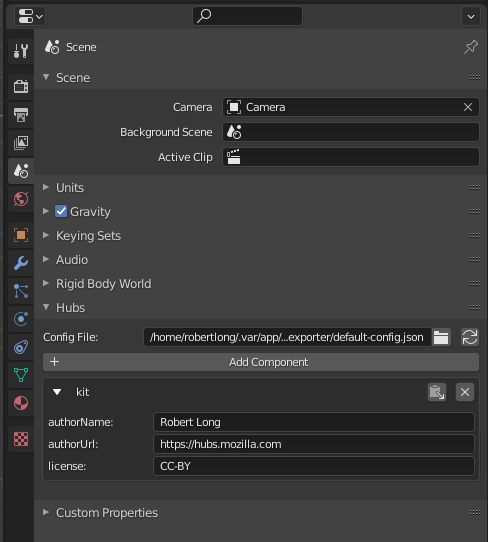
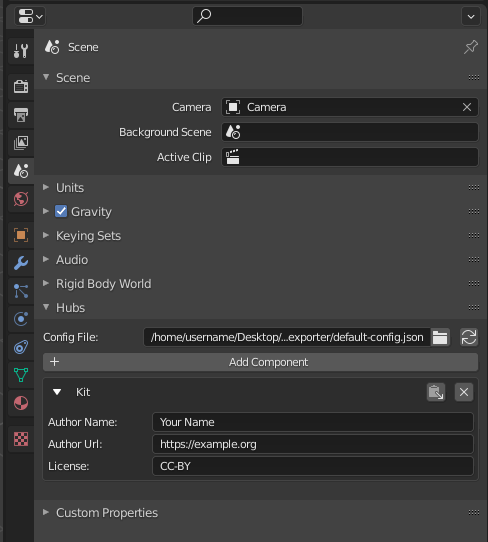
Remove the last bits of Mozilla branding
What: Removes Mozilla branding from the habitat scripts, some test files, images, videos, and a few other miscellaneous files.

Why: this is no longer a Mozilla project.

Notes:

The AVA test snapshot (test/integration/snapshots/Editor.test.js.snap)  will need to be regenerated with `yarn run update-test-snapshots` due to the changes in test/integration/snapshots/Editor.test.js.md, but that will need to wait until the architecture kit and crater.glb are rehosted in order to complete successfully.  Technically, this means one Mozilla reference is left (inside the snapshot), but it's only visible when running the tests and seeing it marked as an error.

This doesn't remove/modify non branding related Mozilla references like credits or code/dependencies as that would be inappropriate/break things.

Pull request: [Mozilla Branding Removal] Remove the last bits of Mozilla branding
## What?
<!-- REQUIRED — Explain what your pull request does -->
Removes Mozilla branding from the habitat scripts, some test files, images, videos, and a few other miscellaneous files.

## Why?
<!-- REQUIRED — Explain why you're opening this pull request, what limitations does it address, etc..  If you're fixing a bug with an open bug report you can just link to the bug report -->
This is no longer a Mozilla project.

## Examples
<!-- OPTIONAL — If applicable, give examples of the changes the user will observe, e.g. screenshots, videos, diagrams, console output, etc., otherwise put "N/A" or remove the section.  Including examples of before the PR and after the PR is encouraged. -->
N/A

## How to test
<!-- REQUIRED — Give the steps required to test your pull request -->

1. Run a search for the text "Mozilla" and see there are no uses of it other than for technical/credit reasons.
    * e.g. on GNU/Linux you can run this command to find any Mozilla references:`grep -r -i --exclude-dir={.git,.tersercache,dist,node_modules} "mozilla"`
2. Look through all the images and see there is no branding.
    * Running this command on GNU/Linux will list all of the images in the current directory and subdirectories `find . -type f -exec file -N -i -- {} + | sed -n 's!: image/[^:]*$!!p'`
3. Look through all the videos and see there is no branding.
[…]

diff --git a/test/integration/snapshots/Editor.test.js.md b/test/integration/snapshots/Editor.test.js.md
@@ -890,7 +890,7 @@ Generated by [AVA](https://avajs.dev).
             {
               name: 'link',
               props: {
-                href: 'https://hubs.mozilla.com/scenes/VfoICgK/too-late',
+                href: 'https://demo.hubsfoundation.org/scenes/p7CqZlR/corn-maze',
               },
             },
           ],
@@ -1831,7 +1831,7 @@ Generated by [AVA](https://avajs.dev).
             {
               name: 'link',
               props: {
-                href: 'https://hubs.mozilla.com',
+                href: 'https://hubsfoundation.org',
               },
             },
           ],
@@ -3301,7 +3301,7 @@ Generated by [AVA](https://avajs.dev).
             {
               name: 'link',
               props: {
-                href: 'https://hubs.mozilla.com',
+                href: 'https://hubsfoundation.org',
               },
             },
           ],
@@ -5094,7 +5094,7 @@ Generated by [AVA](https://avajs.dev).
             {
               name: 'link',
               props: {
-                href: 'https://hubs.mozilla.com',
+                href: 'https://hubsfoundation.org',
               },
             },
           ],
@@ -6860,7 +6860,7 @@ Generated by [AVA](https://avajs.dev).
             {
               name: 'link',
               props: {
-                href: 'https://hubs.mozilla.com',
+                href: 'https://hubsfoundation.org',
               },
             },
           ],
@@ -8578,7 +8578,7 @@ Generated by [AVA](https://avajs.dev).
             {
               name: 'link',
               props: {
-                href: 'https://hubs.mozilla.com',
+                href: 'https://hubsfoundation.org',
               },
             },
           ],